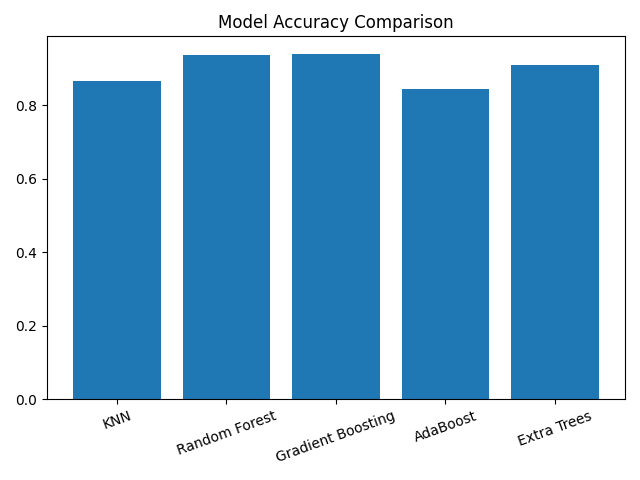
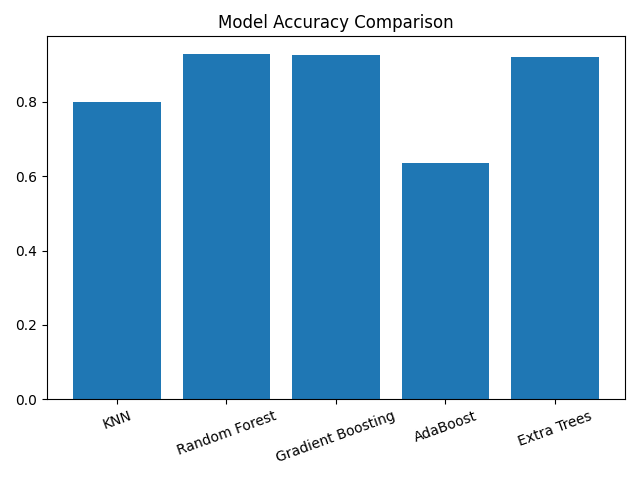
Added all EDA plots, confusion matrices, and trained models

diff --git a/train_models.py b/train_models.py
@@ -1,15 +1,15 @@
 # ============================================================
-# Student Performance Prediction — Local Training Script
+# Student Performance Prediction — FINAL COMPLETE SCRIPT
 # ============================================================
 
 import pandas as pd
 import numpy as np
 import matplotlib.pyplot as plt
 import seaborn as sns
-import joblib, os, json, warnings, time
+import joblib, os, warnings, time
 warnings.filterwarnings('ignore')
 
-from sklearn.model_selection import train_test_split, cross_val_score
+from sklearn.model_selection import train_test_split
 from sklearn.preprocessing import LabelEncoder, StandardScaler
 from sklearn.metrics import (accuracy_score, classification_report,
                              confusion_matrix, mean_absolute_error)
@@ -19,187 +19,126 @@ from sklearn.ensemble import (RandomForestClassifier, GradientBoostingClassifier
 
 print("✅ All libraries imported successfully!")
 
+# ================= CREATE FOLDER =================
+os.makedirs('student_models', exist_ok=True)
+
 # ================= LOAD DATA =================
 df = pd.read_csv('StudentsPerformance.csv')
 
 print(f"\n📊 Dataset shape: {df.shape}")
-print("\nFirst 5 rows:")
-print(df.head())
-print("\nMissing values:")
-print(df.isnull().sum())
+print("\nMissing values:\n", df.isnull().sum())
 
 # ================= EDA =================
-print("\n" + "="*50)
-print("📊 EXPLORATORY DATA ANALYSIS")
-print("="*50)
+print("\n📊 EDA STARTED")
 
-# Basic statistics
-print("\n📌 Descriptive Statistics:")
-print(df.describe())
-
-# Value counts for categorical columns
-cat_cols_raw = ['gender', 'race/ethnicity', 'parental level of education',
-                'lunch', 'test preparation course']
-print("\n📌 Categorical Column Distributions:")
-for col in cat_cols_raw:
-    print(f"\n{col}:\n{df[col].value_counts()}")
-
-# Score distributions
-print("\n📌 Score Distributions (Histograms):")
-fig, axes = plt.subplots(1, 3, figsize=(15, 4))
 score_cols = ['math score', 'reading score', 'writing score']
+
+# ---- HISTOGRAMS ----
+fig, axes = plt.subplots(1, 3, figsize=(15, 4))
 for i, col in enumerate(score_cols):
-    axes[i].hist(df[col], bins=20, color='steelblue', edgecolor='black')
-    axes[i].set_title(f'Distribution of {col}')
-    axes[i].set_xlabel('Score')
-    axes[i].set_ylabel('Frequency')
+    axes[i].hist(df[col], bins=20)
+    axes[i].set_title(col)
 plt.tight_layout()
 plt.savefig('student_models/score_distributions.png')
-plt.show()
+plt.close()
 
-# Correlation heatmap
-print("\n📌 Correlation Heatmap:")
-plt.figure(figsize=(8, 5))
-sns.heatmap(df[score_cols].corr(), annot=True, fmt=".2f", cmap='coolwarm')
-plt.title("Correlation Heatmap - Score Columns")
+# ---- CORRELATION HEATMAP ----
+plt.figure(figsize=(6, 4))
+sns.heatmap(df[score_cols].corr(), annot=True)
+plt.title("Correlation Heatmap")
 plt.tight_layout()
 plt.savefig('student_models/correlation_heatmap.png')
-plt.show()
+plt.close()
 
-# Box plots for scores
-print("\n📌 Box Plots for Score Columns:")
-plt.figure(figsize=(8, 5))
-df[score_cols].plot(kind='box', patch_artist=True)
-plt.title("Box Plot - Math, Reading, Writing Scores")
+# ---- BOXPLOTS ----
+plt.figure(figsize=(6, 4))
+df[score_cols].plot(kind='box')
+plt.title("Boxplot of Scores")
 plt.tight_layout()
 plt.savefig('student_models/boxplots_scores.png')
-plt.show()
+plt.close()
 
-# Score by gender
-print("\n📌 Scores by Gender:")
+# ---- PAIRPLOT ----
+pairplot = sns.pairplot(df[score_cols])
+pairplot.savefig('student_models/pairplot_scores.png')
+plt.close()
+
+# ---- GENDER ANALYSIS ----
 fig, axes = plt.subplots(1, 3, figsize=(15, 4))
 for i, col in enumerate(score_cols):
-    df.groupby('gender')[col].mean().plot(kind='bar', ax=axes[i], color=['coral', 'steelblue'])
-    axes[i].set_title(f'Avg {col} by Gender')
-    axes[i].set_ylabel('Mean Score')
-    axes[i].tick_params(axis='x', rotation=0)
+    df.groupby('gender')[col].mean().plot(kind='bar', ax=axes[i])
 plt.tight_layout()
 plt.savefig('student_models/scores_by_gender.png')
-plt.show()
+plt.close()
 
-# Score by test preparation course
-print("\n📌 Scores by Test Preparation Course:")
+# ---- TEST PREP ANALYSIS ----
 fig, axes = plt.subplots(1, 3, figsize=(15, 4))
 for i, col in enumerate(score_cols):
-    df.groupby('test preparation course')[col].mean().plot(kind='bar', ax=axes[i], color=['salmon', 'mediumseagreen'])
-    axes[i].set_title(f'Avg {col} by Test Prep')
-    axes[i].set_ylabel('Mean Score')
-    axes[i].tick_params(axis='x', rotation=0)
+    df.groupby('test preparation course')[col].mean().plot(kind='bar', ax=axes[i])
 plt.tight_layout()
 plt.savefig('student_models/scores_by_testprep.png')
-plt.show()
+plt.close()
 
-# Pairplot for score relationships
-print("\n📌 Pairplot for Score Columns:")
-sns.pairplot(df[score_cols])
-plt.suptitle("Pairplot - Score Relationships", y=1.02)
-plt.tight_layout()
-plt.savefig('student_models/pairplot_scores.png')
-plt.show()
+# ================= OUTLIER DETECTION =================
+print("\n📊 OUTLIER DETECTION")
 
-# ================= IQR OUTLIER DETECTION =================
-print("\n" + "="*50)
-print("📌 IQR OUTLIER DETECTION")
-print("="*50)
+fig, axes = plt.subplots(1, 3, figsize=(15, 5))
 
-outlier_summary = {}
-
-for col in score_cols:
+for i, col in enumerate(score_cols):
     Q1 = df[col].quantile(0.25)
     Q3 = df[col].quantile(0.75)
     IQR = Q3 - Q1
-    lower_bound = Q1 - 1.5 * IQR
-    upper_bound = Q3 + 1.5 * IQR
 
-    outliers = df[(df[col] < lower_bound) | (df[col] > upper_bound)]
-    outlier_summary[col] = {
-        'Q1': Q1, 'Q3': Q3, 'IQR': IQR,
-        'Lower Bound': lower_bound,
-        'Upper Bound': upper_bound,
-        'Outlier Count': len(outliers)
-    }
+    lower = Q1 - 1.5 * IQR
+    upper = Q3 + 1.5 * IQR
 
-    print(f"\n{col}:")
-    print(f"  Q1={Q1}, Q3={Q3}, IQR={IQR}")
-    print(f"  Lower Bound={lower_bound}, Upper Bound={upper_bound}")
-    print(f"  Number of Outliers: {len(outliers)}")
-    if len(outliers) > 0:
-        print(f"  Outlier Rows:\n{outliers[['math score', 'reading score', 'writing score']].head()}")
+    outliers = df[(df[col] < lower) | (df[col] > upper)]
 
-# Box plots with outlier highlights
-print("\n📌 Box Plots with IQR Outlier Highlights:")
-fig, axes = plt.subplots(1, 3, figsize=(15, 5))
-for i, col in enumerate(score_cols):
-    Q1 = outlier_summary[col]['Q1']
-    Q3 = outlier_summary[col]['Q3']
-    IQR = outlier_summary[col]['IQR']
-    lower = outlier_summary[col]['Lower Bound']
-    upper = outlier_summary[col]['Upper Bound']
+    axes[i].boxplot(df[col])
+    axes[i].scatter([1]*len(outliers), outliers[col])
+    axes[i].set_title(f"{col} (Outliers: {len(outliers)})")
 
-    outliers_mask = (df[col] < lower) | (df[col] > upper)
-    axes[i].boxplot(df[col], patch_artist=True,
-                    boxprops=dict(facecolor='lightblue'),
-                    medianprops=dict(color='red'))
-    axes[i].scatter([1] * outliers_mask.sum(),
-                    df.loc[outliers_mask, col],
-                    color='red', zorder=5, label='Outliers', s=30)
-    axes[i].set_title(f'{col}\nOutliers: {outliers_mask.sum()}')
-    axes[i].legend()
 plt.tight_layout()
 plt.savefig('student_models/iqr_outlier_boxplots.png')
-plt.show()
+plt.close()
 
-print("\n✅ EDA and Outlier Detection complete!")
+print("✅ EDA DONE")
 
 # ================= FEATURE ENGINEERING =================
-df['avg_score'] = (df['math score'] + df['reading score'] + df['writing score']) / 3
+df['avg_score'] = df[score_cols].mean(axis=1)
 
-def assign_grade(avg):
-    if avg >= 90: return 'A'
-    elif avg >= 75: return 'B'
-    elif avg >= 60: return 'C'
-    elif avg >= 45: return 'D'
+def assign_grade(x):
+    if x >= 90: return 'A'
+    elif x >= 75: return 'B'
+    elif x >= 60: return 'C'
+    elif x >= 45: return 'D'
     else: return 'F'
 
 df['grade'] = df['avg_score'].apply(assign_grade)
-df['pass_fail'] = (df['avg_score'] >= 60).astype(int)
 
 # ================= ENCODING =================
 cat_cols = ['gender', 'race/ethnicity', 'parental level of education',
             'lunch', 'test preparation course']
 
-df_encoded = df.copy()
 encoders = {}
-
 for col in cat_cols:
     le = LabelEncoder()
-    df_encoded[col + '_enc'] = le.fit_transform(df[col])
+    df[col] = le.fit_transform(df[col])
     encoders[col] = le
 
 le_grade = LabelEncoder()
-df_encoded['grade_enc'] = le_grade.fit_transform(df['grade'])
+df['grade'] = le_grade.fit_transform(df['grade'])
 
-feature_cols = [c + '_enc' for c in cat_cols] + ['math score', 'reading score', 'writing score']
-X = df_encoded[feature_cols].values
-y = df_encoded['grade_enc'].values
+X = df[cat_cols + score_cols]
+y = df['grade']
 
 # ================= SPLIT =================
 X_train, X_test, y_train, y_test = train_test_split(
-    X, y, test_size=0.2, random_state=42, stratify=y)
+    X, y, test_size=0.2, random_state=42)
 
 scaler = StandardScaler()
 X_train_sc = scaler.fit_transform(X_train)
-X_test_sc  = scaler.transform(X_test)
+X_test_sc = scaler.transform(X_test)
 
 # ================= MODELS =================
 models = {
@@ -207,80 +146,66 @@ models = {
     'Random Forest': RandomForestClassifier(n_estimators=200, random_state=42),
     'Gradient Boosting': GradientBoostingClassifier(n_estimators=200),
     'AdaBoost': AdaBoostClassifier(n_estimators=150),
-    'Extra Trees': ExtraTreesClassifier(n_estimators=200, random_state=42),
+    'Extra Trees': ExtraTreesClassifier(n_estimators=200, random_state=42)
 }
 
 results = {}
-training_times = {}
+accs = []
 
-print("\nTraining models with additional metrics...\n")
+print("\n🚀 TRAINING MODELS\n")
 
 for name, model in models.items():
     Xtr = X_train_sc if name == 'KNN' else X_train
-    Xte = X_test_sc  if name == 'KNN' else X_test
+    Xte = X_test_sc if name == 'KNN' else X_test
 
-    start_time = time.time()
+    start = time.time()
     model.fit(Xtr, y_train)
-    end_time = time.time()
-
-    training_time = end_time - start_time
-    training_times[name] = training_time
+    end = time.time()
 
     y_pred = model.predict(Xte)
+
     acc = accuracy_score(y_test, y_pred)
     mae = mean_absolute_error(y_test, y_pred)
-    report = classification_report(y_test, y_pred, target_names=le_grade.classes_)
-    cm = confusion_matrix(y_test, y_pred)
+    accs.append(acc)
 
-    results[name] = model
-
-    print(f"--- {name} ---")
+    print(f"\n🔥 {name}")
     print(f"Accuracy: {acc:.4f}")
-    print(f"Mean Absolute Error: {mae:.4f}")
-    print(f"Training time: {training_time:.2f} seconds")
-    print("Classification Report:")
-    print(report)
-    print("Confusion Matrix:")
-    print(cm)
-    print("\n")
+    print(f"MAE: {mae:.4f}")
+    print(f"Training Time: {end-start:.4f}s")
 
-    # Confusion matrix heatmap
+    print("\nClassification Report:")
+    print(classification_report(y_test, y_pred))
+
+    cm = confusion_matrix(y_test, y_pred)
+    print("Confusion Matrix:\n", cm)
+
+    # ---- SAVE CONFUSION MATRIX PLOT ----
     plt.figure(figsize=(5,4))
-    sns.heatmap(cm, annot=True, fmt="d", xticklabels=le_grade.classes_, yticklabels=le_grade.classes_, cmap="Blues")
-    plt.title(f"{name} - Confusion Matrix")
+    sns.heatmap(cm, annot=True, fmt='d')
+    plt.title(name)
     plt.xlabel("Predicted")
     plt.ylabel("Actual")
     plt.tight_layout()
-    plt.savefig(f"student_models/{name.lower().replace(' ', '_')}_confusion_matrix.png")
+    plt.savefig(f'student_models/{name.replace(" ", "_")}_cm.png')
     plt.close()
 
-# ================= SAVE MODELS =================
-os.makedirs('student_models', exist_ok=True)
+    results[name] = model
+    joblib.dump(model, f'student_models/{name.replace(" ", "_")}.pkl')
 
-for name, model in results.items():
-    fname = name.lower().replace(' ', '_')
-    joblib.dump(model, f'student_models/{fname}.pkl')
-
+# ================= SAVE PREPROCESSING =================
 joblib.dump(scaler, 'student_models/scaler.pkl')
 joblib.dump(encoders, 'student_models/encoders.pkl')
 joblib.dump(le_grade, 'student_models/label_encoder.pkl')
 
-print("\n✅ Models and scaler/encoders saved successfully!")
+print("\n✅ Models & preprocessors saved!")
 
-# ================= ACCURACY COMPARISON PLOT =================
-names = list(results.keys())
-accs = []
-
-for name, model in results.items():
-    Xte = X_test_sc if name == 'KNN' else X_test
-    accs.append(accuracy_score(y_test, model.predict(Xte)))
-
+# ================= MODEL COMPARISON =================
 plt.figure()
-plt.bar(names, accs)
+plt.bar(results.keys(), accs)
 plt.xticks(rotation=20)
 plt.title("Model Accuracy Comparison")
 plt.tight_layout()
-plt.savefig("student_models/model_comparison.png")
-plt.show()
+plt.savefig('student_models/model_comparison.png')
+plt.close()
 
-print("📊 Accuracy comparison plot saved as student_models/model_comparison.png")
+print("\n🔥 EVERYTHING DONE & SAVED IN student_models/")
